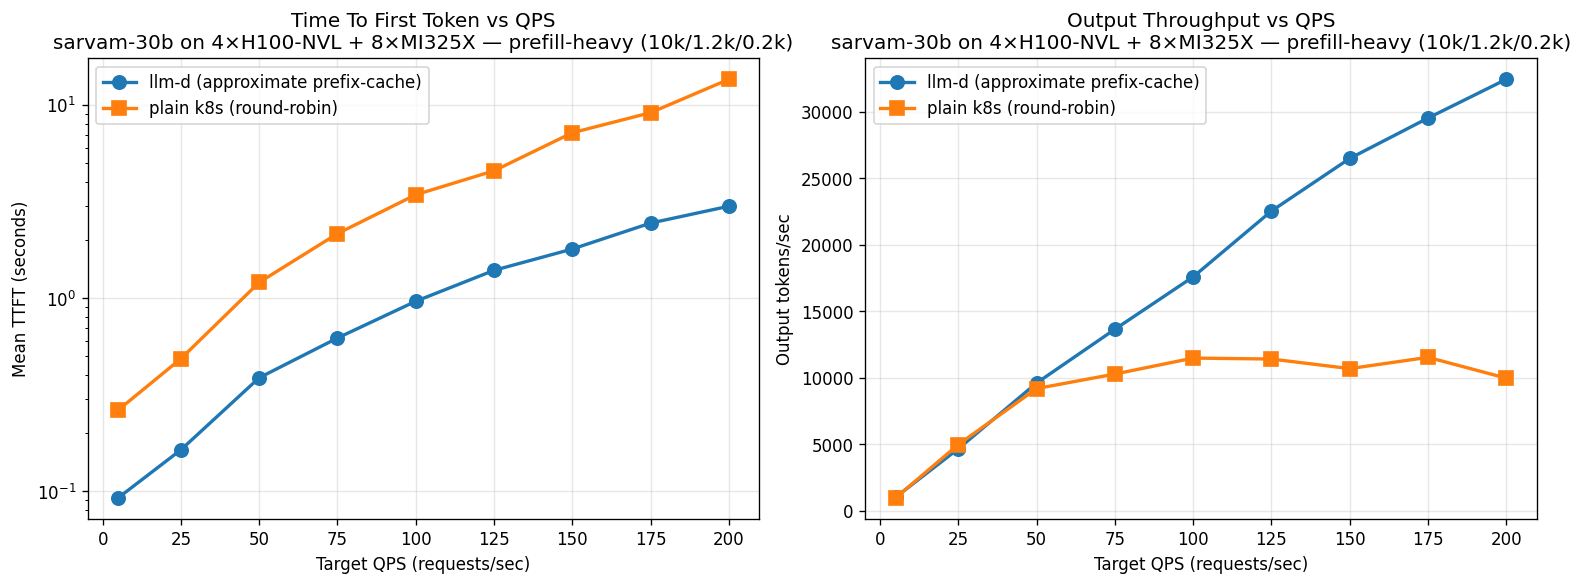
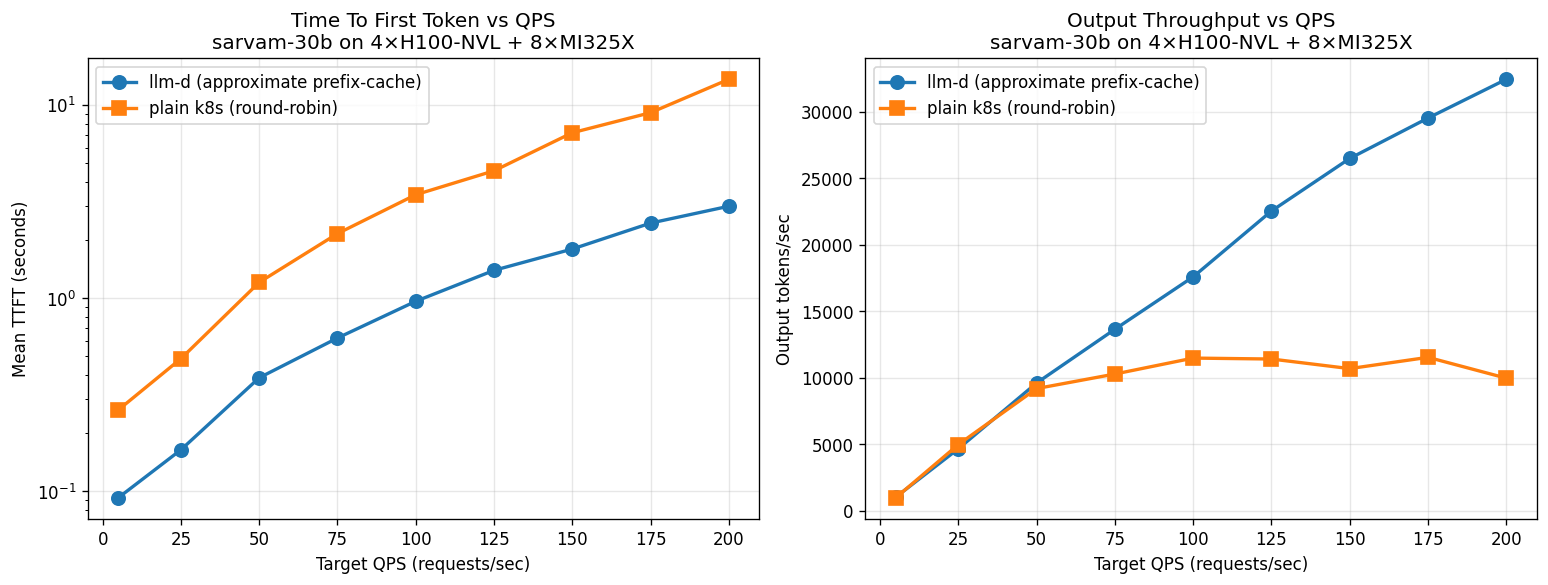
Add recent results with highlights

diff --git a/2.2/precise-prefix-sarvam-30b-amd/benchmark/plot_comparison.py b/2.2/precise-prefix-sarvam-30b-amd/benchmark/plot_comparison.py
@@ -44,7 +44,7 @@ ax1.plot(rates, [r["llmd_ttft"] for r in rows], "o-", label="llm-d (approximate 
 ax1.plot(rates, [r["k8s_ttft"] for r in rows], "s-", label="plain k8s (round-robin)", linewidth=2, markersize=8)
 ax1.set_xlabel("Target QPS (requests/sec)")
 ax1.set_ylabel("Mean TTFT (seconds)")
-ax1.set_title("Time To First Token vs QPS\nsarvam-30b AMD-only (8×MI325X TP=1) — prefill-heavy (10k/1.2k/0.2k)")
+ax1.set_title("Time To First Token vs QPS\nsarvam-30b AMD-only (8×MI325X TP=1)")
 ax1.legend()
 ax1.grid(True, alpha=0.3)
 ax1.set_yscale("log")
@@ -53,7 +53,7 @@ ax2.plot(rates, [r["llmd_tok"] for r in rows], "o-", label="llm-d (approximate p
 ax2.plot(rates, [r["k8s_tok"] for r in rows], "s-", label="plain k8s (round-robin)", linewidth=2, markersize=8)
 ax2.set_xlabel("Target QPS (requests/sec)")
 ax2.set_ylabel("Output tokens/sec")
-ax2.set_title("Output Throughput vs QPS\nsarvam-30b AMD-only (8×MI325X TP=1) — prefill-heavy (10k/1.2k/0.2k)")
+ax2.set_title("Output Throughput vs QPS\nsarvam-30b AMD-only (8×MI325X TP=1)")
 ax2.legend()
 ax2.grid(True, alpha=0.3)
 

diff --git a/4.1/precise-prefix-sarvam-30b-mixed/benchmark/plot_comparison.py b/4.1/precise-prefix-sarvam-30b-mixed/benchmark/plot_comparison.py
@@ -44,7 +44,7 @@ ax1.plot(rates, [r["llmd_ttft"] for r in rows], "o-", label="llm-d (approximate 
 ax1.plot(rates, [r["k8s_ttft"] for r in rows], "s-", label="plain k8s (round-robin)", linewidth=2, markersize=8)
 ax1.set_xlabel("Target QPS (requests/sec)")
 ax1.set_ylabel("Mean TTFT (seconds)")
-ax1.set_title("Time To First Token vs QPS\nsarvam-30b on 4×H100-NVL + 8×MI325X — prefill-heavy (10k/1.2k/0.2k)")
+ax1.set_title("Time To First Token vs QPS\nsarvam-30b on 4×H100-NVL + 8×MI325X")
 ax1.legend()
 ax1.grid(True, alpha=0.3)
 ax1.set_yscale("log")
@@ -53,7 +53,7 @@ ax2.plot(rates, [r["llmd_tok"] for r in rows], "o-", label="llm-d (approximate p
 ax2.plot(rates, [r["k8s_tok"] for r in rows], "s-", label="plain k8s (round-robin)", linewidth=2, markersize=8)
 ax2.set_xlabel("Target QPS (requests/sec)")
 ax2.set_ylabel("Output tokens/sec")
-ax2.set_title("Output Throughput vs QPS\nsarvam-30b on 4×H100-NVL + 8×MI325X — prefill-heavy (10k/1.2k/0.2k)")
+ax2.set_title("Output Throughput vs QPS\nsarvam-30b on 4×H100-NVL + 8×MI325X")
 ax2.legend()
 ax2.grid(True, alpha=0.3)
 

diff --git a/Results.md b/Results.md
@@ -1,3 +1,22 @@
+# Summary
+
+Across every pool we tested — single-vendor (NVIDIA-only / AMD-only / Gaudi-only) and heterogeneous (NVIDIA+AMD, NVIDIA+AMD+Gaudi) — **llm-d's prefix-cache-aware EPP routing consistently wins over plain k8s round-robin** on both throughput and TTFT. The advantage grows with pool size and heterogeneity:
+
+| Pool | Pods | Model | Throughput edge | TTFT edge |
+|---|---|---|---|---|
+| NVIDIA-only | 4 H100-NVL | granite-4.1-8b | +25–36% | 16× |
+| NVIDIA-only | 4 H100-NVL | sarvam-30b | 2× | 22× |
+| AMD-only | 8 MI325X | granite-4.1-8b | +79% | 21× |
+| AMD-only | 8 MI325X | sarvam-30b | +85% (29K vs 17K) | 5× |
+| Gaudi-only | 8 Gaudi3 | granite-4.1-8b | +34% | 18× |
+| NVIDIA + AMD | 12 | granite-4.1-8b | +85% (19.4K vs 10–11K) | 3.4–5.6× |
+| NVIDIA + AMD | 12 | sarvam-30b | ~3× @ rate 200 | 2.85–4.54× |
+| NVIDIA + AMD + Gaudi | 20 | granite-4.1-8b | **+91% @ rate 85** | **5.4×** |
+
+**Why llm-d wins biggest on heterogeneous pools:** k8s round-robin spreads requests evenly regardless of pod speed, so a single slow vendor (an underpowered NVIDIA tier among MI325X, or un-tuned Gaudi) becomes a queueing sink that drags total throughput down. llm-d's prefix-cache-aware EPP routes around saturated pods and concentrates cache hits on warm ones, so heterogeneity is no longer a penalty.
+
+---
+
 # NVIDIA - 4 GPUs (Prefix-caching)
 ## Granite-8b  ✅ 
 ![alt text](<2.1/precise-prefix-granite/benchmark-results/comparison_rates_3_to_22 copy.png>)
@@ -47,9 +66,9 @@ llm-d wins biggest in the mixed pool — round-robin is most punished by heterog
 ## Granite-8b ✅
 ![alt text](4.2/mixed-3vendor-granite/benchmark/comparison_3vendor.png)
 
-**Highlight: With the optimized Gaudi config (block-size=128, max-num-seqs=256), the 20-pod 3-vendor pool delivers 14.2K out tok/s peak with llm-d vs 9.6K with k8s round-robin. k8s saturates at rate 25 and *declines* to 7.5K at rate 85 (queue depth dominates) — llm-d delivers +91% throughput at the same load. TTFT at rate 85: llm-d 6.8s, k8s 36.4s (5.4× better). 2× improvement over the original un-tuned 4.2 result (7K) purely from the Gaudi tuning; Gaudi is no longer the drag in the heterogeneous pool.**
+**Highlight: The 20-pod 3-vendor pool delivers 14.2K out tok/s peak with llm-d vs 9.6K with k8s round-robin. k8s saturates at rate 25 and *declines* to 7.5K at rate 85 (queue depth dominates) — llm-d delivers +91% throughput at the same load. TTFT at rate 85: llm-d 6.8s, k8s 36.4s (5.4× better).**
 
-### Original (un-tuned Gaudi) for reference
+<!-- ### Original (un-tuned Gaudi) for reference
 ![alt text](4.2/benchmark/comparison_3vendor_pool.png)
 
 # NVIDIA - 4 GPUs (PD Disaggregation)
@@ -57,4 +76,4 @@ llm-d wins biggest in the mixed pool — round-robin is most punished by heterog
 
 ![Trying with llm-d 0.7](3.1/precise-pd-sarvam30b/benchmark/comparison_2p2d_highlights.png)
 
-**Highlight: PD reduces tail (inter-token) latency by up to 89%, while closely matching the throughput. PD's ideally works bestfor serving larger models 120b+, hence we do not see throughput gains**
+**Highlight: PD reduces tail (inter-token) latency by up to 89%, while closely matching the throughput. PD's ideally works bestfor serving larger models 120b+, hence we do not see throughput gains** -->